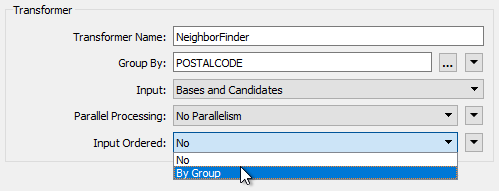
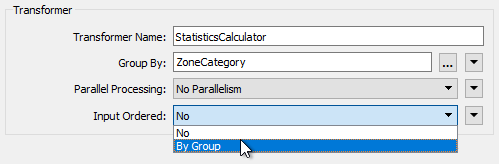
Adv Ch2 2018.1 and Grammarly review + changes for instructor workspaces

Changed region(s): [[0.1503, 0.122, 0.992, 0.9756], [0.0301, 0.0305, 0.1503, 0.0915]]

diff --git a/DesktopAdvanced2WorkspaceDesign/2.16.OptimizingTransformationPerformance.md b/DesktopAdvanced2WorkspaceDesign/2.16.OptimizingTransformationPerformance.md
@@ -6,7 +6,7 @@ Remember that in feature-based transformation a transformer performs an operatio
 
 However, a group-based transformer performs an operation on a group or collection of features and it takes as much memory as is necessary to store all features of the group!
 
-It is this grouping of data that causes performance degradation. 
+It is this grouping of data that causes performance degradation. However, many group-based transformers have parameters that, in effect, make them more feature-based.
 
 ---
 
@@ -30,49 +30,55 @@ For example, put feature-based filter transformers BEFORE the group-based proces
 
 ---
 
-## Making Group-based Transformers more Feature-based ##
+## Input Ordered Parameter ##
 
-Obviously, when a group-based transformer is needed, then it must be used. However, many group-based transformers have a parameter that, in effect, makes them more feature-based.
-
-One common parameter is called "Input Ordered" and appears near the Group By parameter in most transformer dialogs:
+A common parameter to Group-Based transformers is called "Input Ordered." and appears near the Group By parameter in most transformer dialogs:
 
 ![](./Images/Img2.029.TransformerPerformanceGroupedFeatureParam.png)
 
-The condition for applying these is that the groups of features are pre-sorted into their groups. When this is the case, and I can set this parameter to By Group, then FME is able to process the data more efficiently. 
+The condition for applying these is that the groups of features are pre-sorted into their groups. When this is the case, and the parameter is set to By Group, then FME processes the data more efficiently. 
 
-For example, in the above screenshot, the user is using the postal code as a group-by parameter (i.e. each address looks for it's nearest neighbor *in the same postcode*). If the incoming data is already sorted in order of postcode then the user can set the Input Ordered parameter and allow FME to treat this more like a feature-based transformer.
+For example, in the above screenshot, the user is using the ZoneCategory attribute as a group-by parameter (i.e. a set of statistics is created for each set of features *with the same ZoneCategory value*). If the incoming data is already sorted in order of ZoneCategory then the user can set the Input Ordered parameter and allow FME to treat this more like a feature-based transformer.
 
-Besides the "Input Ordered" parameter, some transformers have their own, unique, parameters for performance improvements.
+---
 
-For example, the NeighborFinder transformer expects two sets of data: Bases and Candidates. By default, FME caches all incoming Bases and Candidates because it needs to be sure it has ALL of the candidates before it can process any bases.
+<!--Warning Section--> 
 
-But, if FME knows the candidate features will arrive first (i.e. the first Base feature signifies the end of the Candidates) then it doesn’t need to cache Base features. It can process them immediately because it knows there are no more candidates that it could match against.
+<table style="border-spacing: 0px">
+<tr>
+<td style="vertical-align:middle;background-color:darkorange;border: 2px solid darkorange">
+<i class="fa fa-exclamation-triangle fa-lg fa-pull-left fa-fw" style="color:white;padding-right: 12px;vertical-align:text-top"></i>
+<span style="color:white;font-size:x-large;font-weight: bold;font-family:serif">WARNING</span>
+</td>
+</tr>
 
-The user specifies that this is true using the parameter Candidates First:
+<tr>
+<td style="border: 1px solid darkorange">
+<span style="font-family:serif; font-style:italic; font-size:larger">
+When using Input Ordered By Group on a transformer with two (or more) input ports, you need to arrange data to arrive in group order (Port 1, Group A, Port 2, Group A, Port 1, Group B, Port 2, Group B, etc.)
+<br><br>i.e. it's not just a case of each stream of data being ordered correctly, you need to alternate streams/ports for each group - and that's very difficult to achieve.
+</span>
+</td>
+</tr>
+</table>
+
+---
+
+## Features First Parameter ##
+
+Besides the "Input Ordered" parameter, some transformers have their own, unique, parameters for performance improvements. Many of these specify one type of feature to arrive "first."
+
+For example, the PointOnAreaOverlayer transformer expects two sets of data: Points and Areas. By default, FME requires all incoming Points and Areas because it needs to be sure it has ALL of the Areas before it can process any Points.
+
+But, if FME knows the Area features will arrive first (i.e. the first Point feature signifies the end of the Areas) then it doesn’t need all Point features. It can process each one immediately because it knows there are no more Areas that it could match against.
+
+The user specifies that this is true using the parameter Areas First:
 
 ![](./Images/Img2.030.TransformerPerformanceNeighborsFirst.png)
 
-Look at this log file for a workspace that uses a NeighborFinder. By default it looks like this:
+But how does a user ensure the Area features arrive first? Well, like writers you can change the order of readers in the Navigator so that the reader at the top of the list is read first.
 
-<pre>
-Translation was SUCCESSFUL with 0 warning(s) (13597 feature(s) output)
-FME Session Duration: 29.6 seconds. (CPU: 27.7s user, 1.5s system)
-END - ProcessID: 28540, peak process memory usage: 231756 kb
-</pre>
-
-With Candidates First turned on it looks like this:
-
-<pre>
-Translation was SUCCESSFUL with 0 warning(s) (13597 feature(s) output)
-FME Session Duration: 28.4 seconds. (CPU: 27.4s user, 0.8s system)
-END - ProcessID: 26429, peak process memory usage: 178412 kb
-</pre>
-
-It’s about 5% faster than before, but more importantly, it’s used nearly 25% less memory!
-
-But how does a user ensure the Candidate features arrive first? Well, like writers you can change the order of readers in the Navigator so that the reader at the top of the list is read first.
-
-It doesn’t improve performance *per se*, but it does let you apply performance-improving parameters like the above.
+Changing the reader order doesn’t improve performance *per se*, but it does let you apply performance-improving parameters like the above.
 
 ---
 
